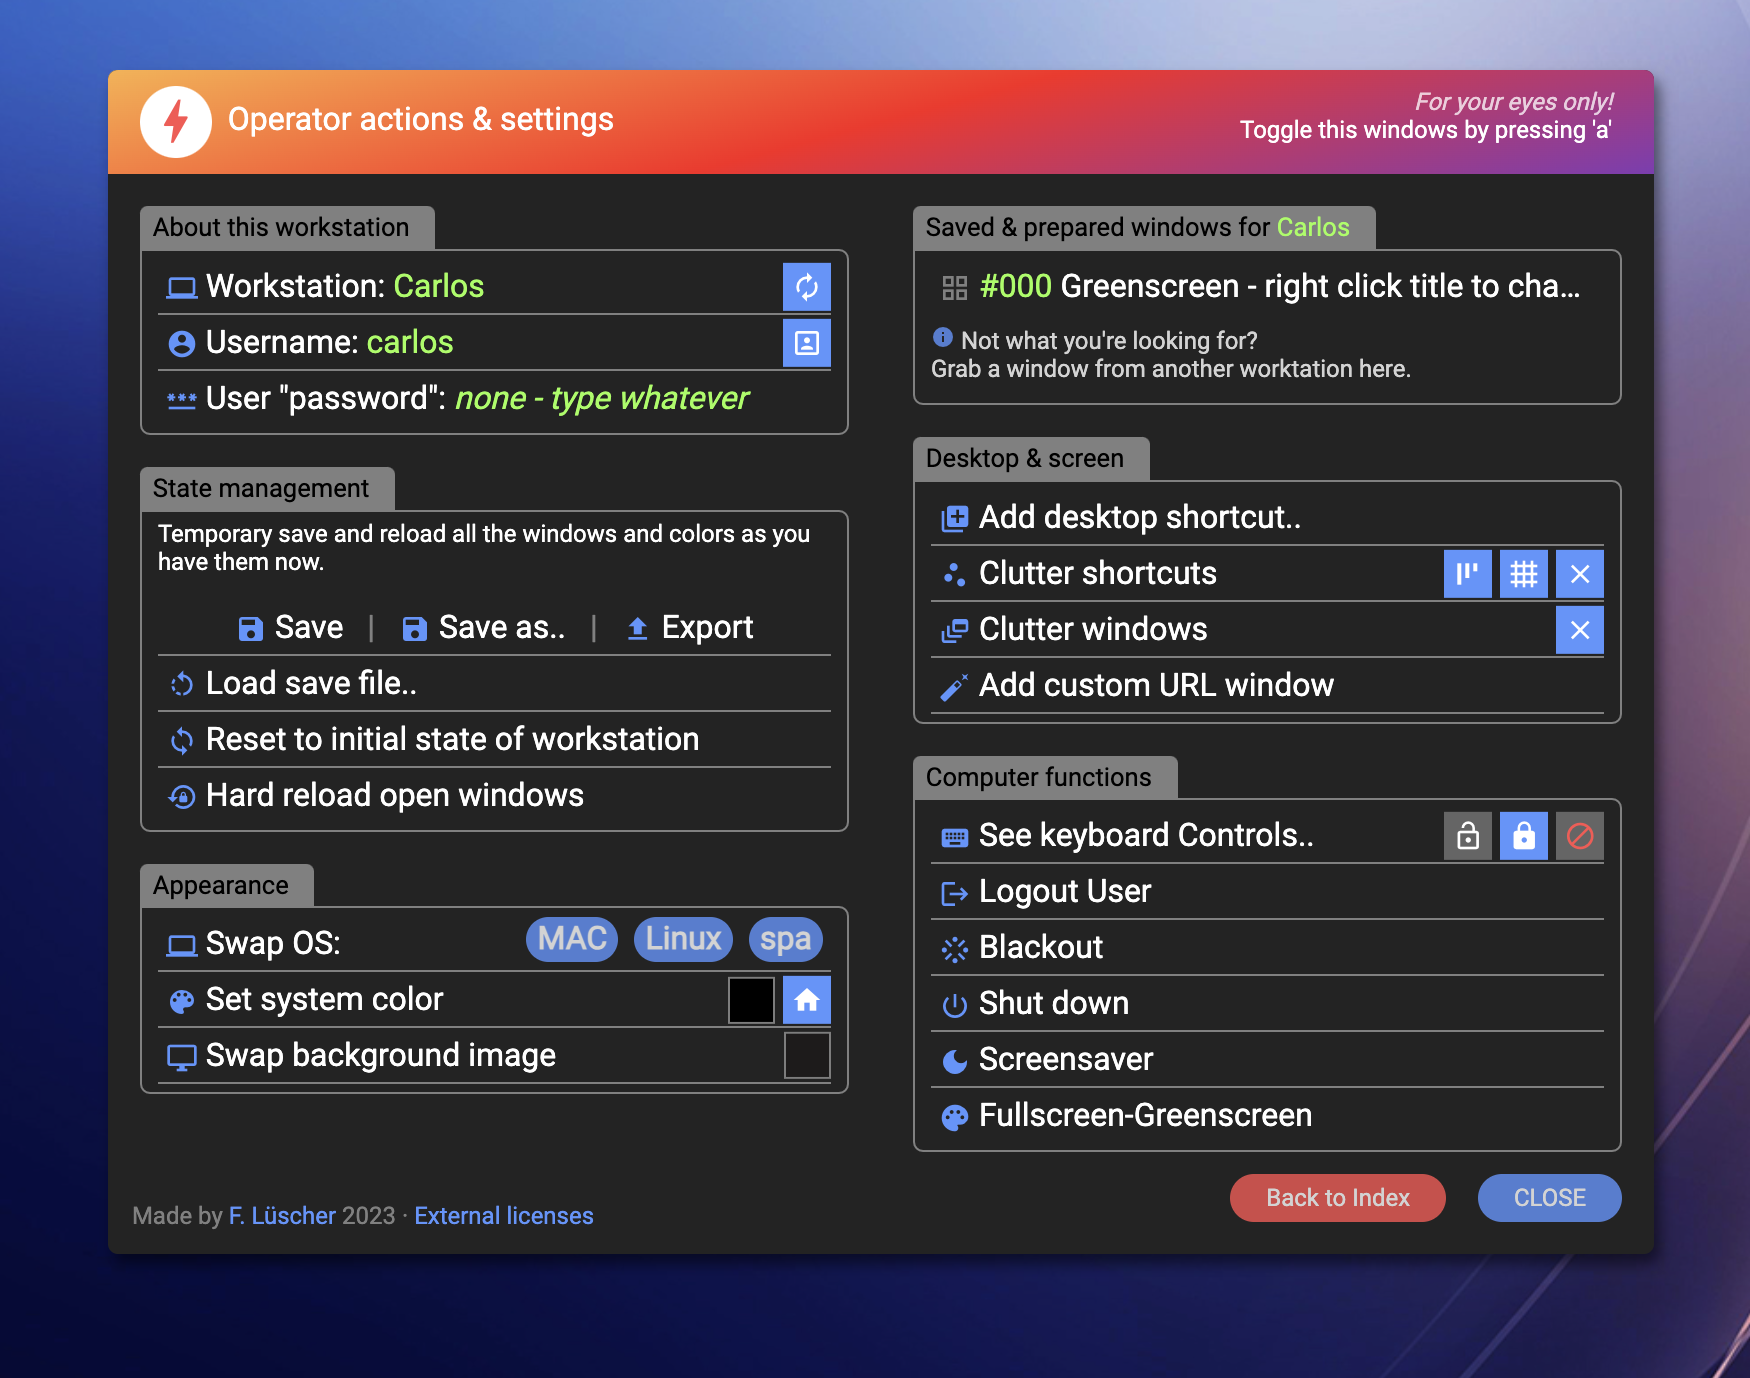
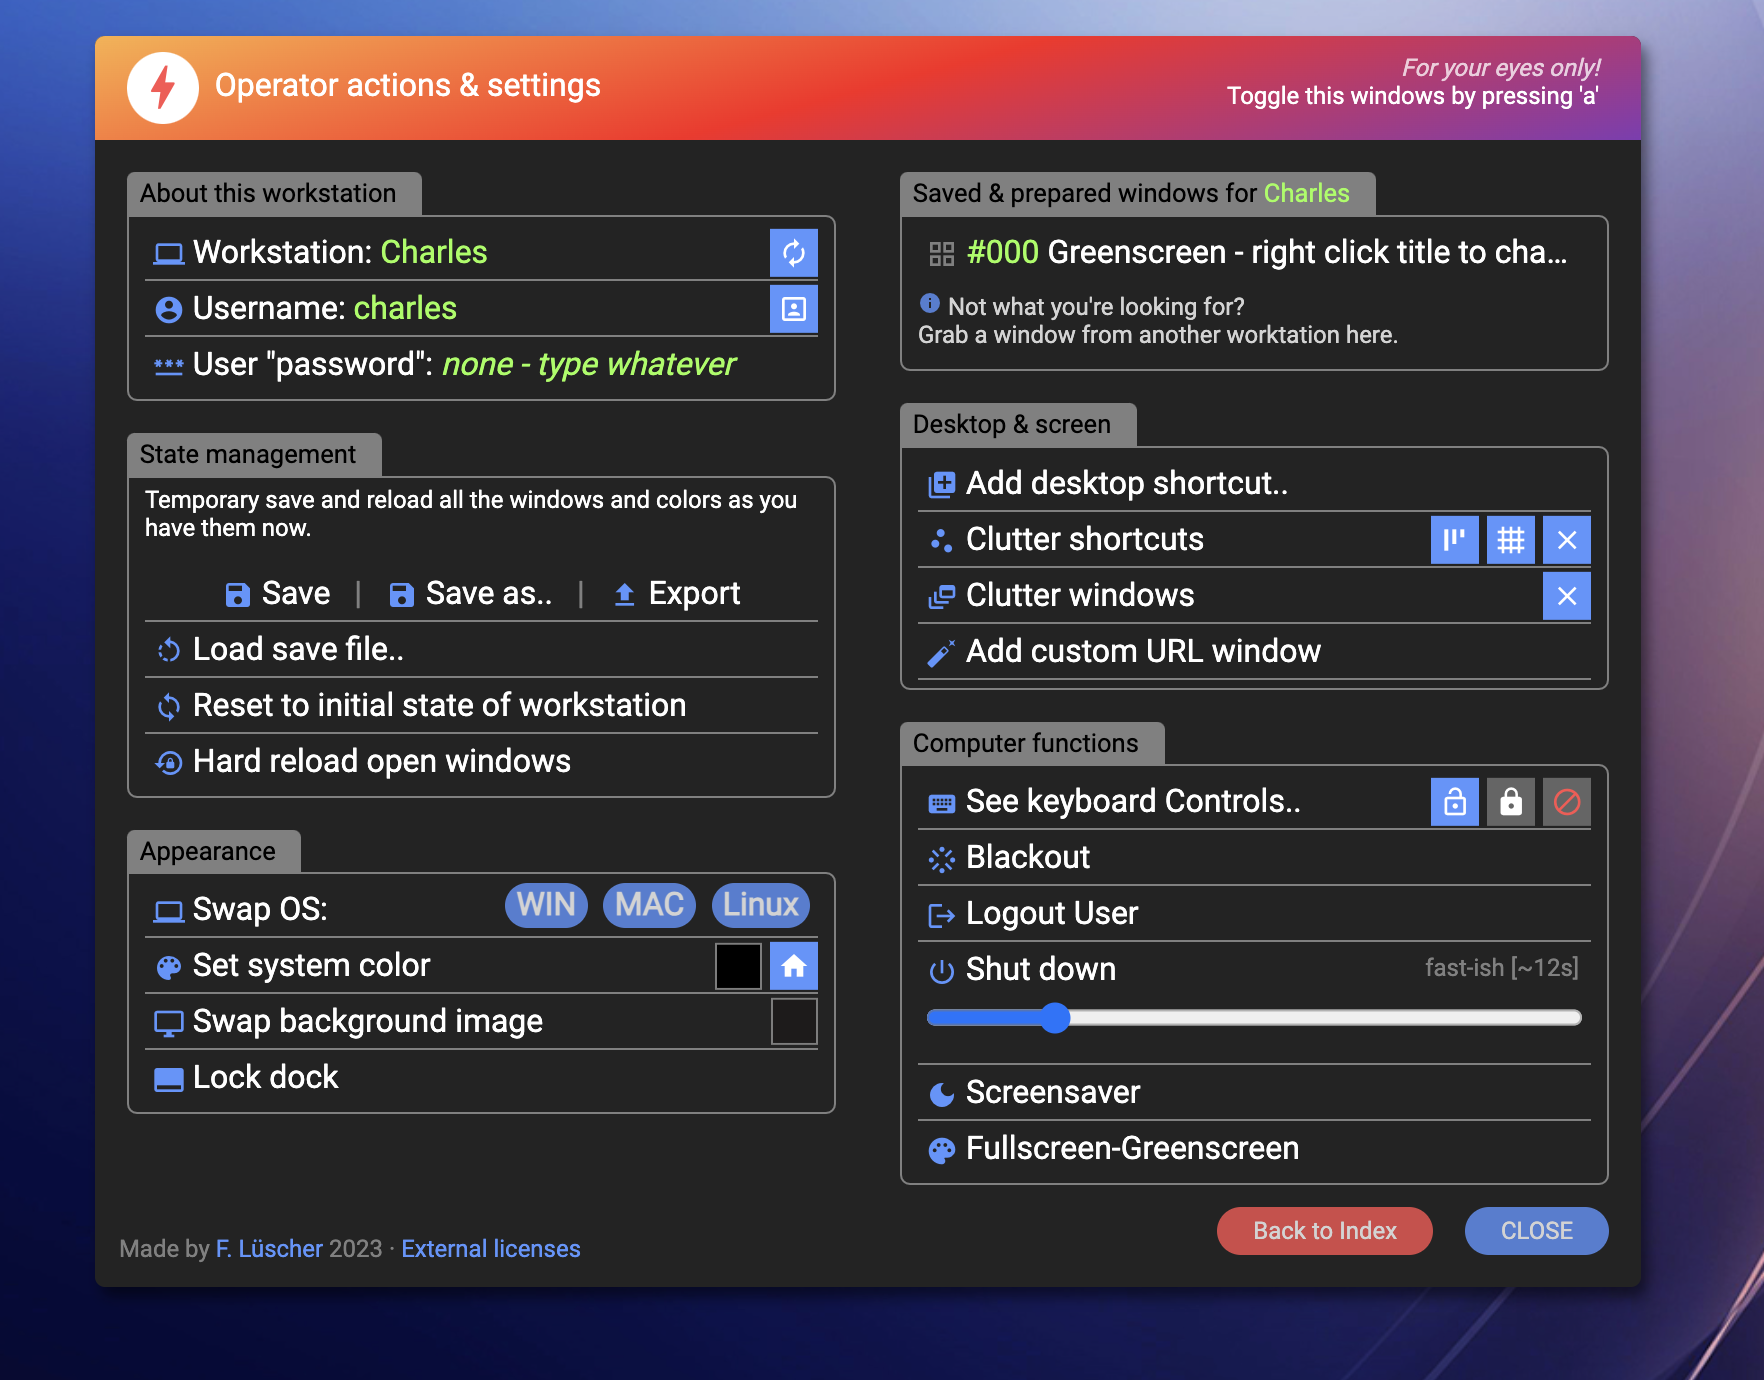
update images, add some text

Changed region(s): [[0.0309, 0.0, 1.0, 1.0], [0.9566, 0.9049, 1.0, 1.0]]

diff --git a/howto/index.html b/howto/index.html
@@ -65,7 +65,7 @@
       <br>
       <br>
       <br>
-      <h3 id="index">INDEX</h3>
+      <h3 id="index">CONTENTS</h3>
       <ul>
         <li class="pointer blue hover" onclick="document.getElementById('general').scrollIntoView();">GENERAL HANDLING OF htmlDESKTOP</li>
         <li class="pointer blue hover" onclick="document.getElementById('actionMenu').scrollIntoView();">THE ACTION MENU IN DETAIL</li>
@@ -76,6 +76,10 @@
         <li class="pointer blue hover" onclick="document.getElementById('howtos').scrollIntoView();">COMPUTER + EDDY-G HANDLING ON SET</li>
         <li class="pointer blue hover" onclick="document.getElementById('').scrollIntoView();"></li>
       </ul>
+
+      <br>
+      <br>
+      <a href="../index.html"><button class="systemButton redBg ">< Back to Index</button></a>
       
       <h2 id="general" class="white tag fancy">GENERAL HANDLING OF htmlDESKTOP</h2>
       <!-- <ol>
@@ -168,20 +172,22 @@
       <img class="blackBg block howToImg maxWidth maxWidth400" src="media/how-15.png">
       <span class="imgText">Right click on a dekstop icon to change the name and the icon</span>
       <img class="blackBg block howToImg maxWidth maxWidth400" src="media/how-16.png">
+      <span class="imgText">Set an icon, set a name, and if you're really fancy, set a havascript function to be executed when the shortcut is boulbe clicked.</span>
 
+      <br>
       <div class="small inlineBlock pointer black hover tag marginY2" onclick="document.getElementById('index').scrollIntoView();">^ top</div>
       
       <h2 id="spontiWindows" class="white tag fancy">UNPLANNED WINDOWS AND BASIC COMPUTER ANIMATIONS</h2>
-      <img class="blackBg block howToImg maxWidth maxWidth800" src="media/how-18.png">18
-      <span class="imgText"></span>
-      <img class="blackBg block howToImg maxWidth maxWidth800" src="media/how-19.png">19
-      <span class="imgText"></span>
-      <img class="blackBg block howToImg maxWidth maxWidth800" src="media/how-20.png">20
-      <span class="imgText"></span>
-      <img class="blackBg block howToImg maxWidth maxWidth800" src="media/how-21.png">21
-      <span class="imgText"></span>
-      <img class="blackBg block howToImg maxWidth maxWidth400" src="media/how-17.png">17
-      <span class="imgText"></span>
+      <img class="blackBg block howToImg maxWidth maxWidth800" src="media/how-18.png">
+      <span class="imgText">If you need "just any new window" pick a random one from the real fake main menu. Pictured: Windows variant</span>
+      <img class="blackBg block howToImg maxWidth maxWidth800" src="media/how-19.png">
+      <span class="imgText">The same windows are available on the mac/linux variant.</span>
+      <img class="blackBg block howToImg maxWidth maxWidth800" src="media/how-20.png">
+      <span class="imgText">In the same menu, the "Shut down" functionality is available.</span>
+      <img class="blackBg block howToImg maxWidth maxWidth800" src="media/how-21.png">
+      <span class="imgText">Adjust the slider in the action menu to change the duration the boot takes.</span>
+      <img class="blackBg block howToImg maxWidth maxWidth400" src="media/how-17.png">
+      <span class="imgText">On the login window, every "password" is valid, unless it is specified.</span>
       
       <br>
       <div class="small inlineBlock pointer black hover tag marginY2" onclick="document.getElementById('index').scrollIntoView();">^ top</div>
@@ -210,9 +216,9 @@
       <div class="small inlineBlock pointer black hover tag marginY2" onclick="document.getElementById('index').scrollIntoView();">^ top</div>
 
       <!-- FOOTER -->
-      <footer class="small">
-        <div class="tag white whiteBgTransparent padding05" style="line-height: 1rem;">
-          <a href="../index.html" class="tag"> &larr; BACK TO INDEX</a>
+      <footer>
+        <div class="" style="line-height: 1rem;">
+          <a href="../index.html"><button class="systemButton redBg ">< Back to Index</button></a>
         </div>
       </footer>
     </article>
